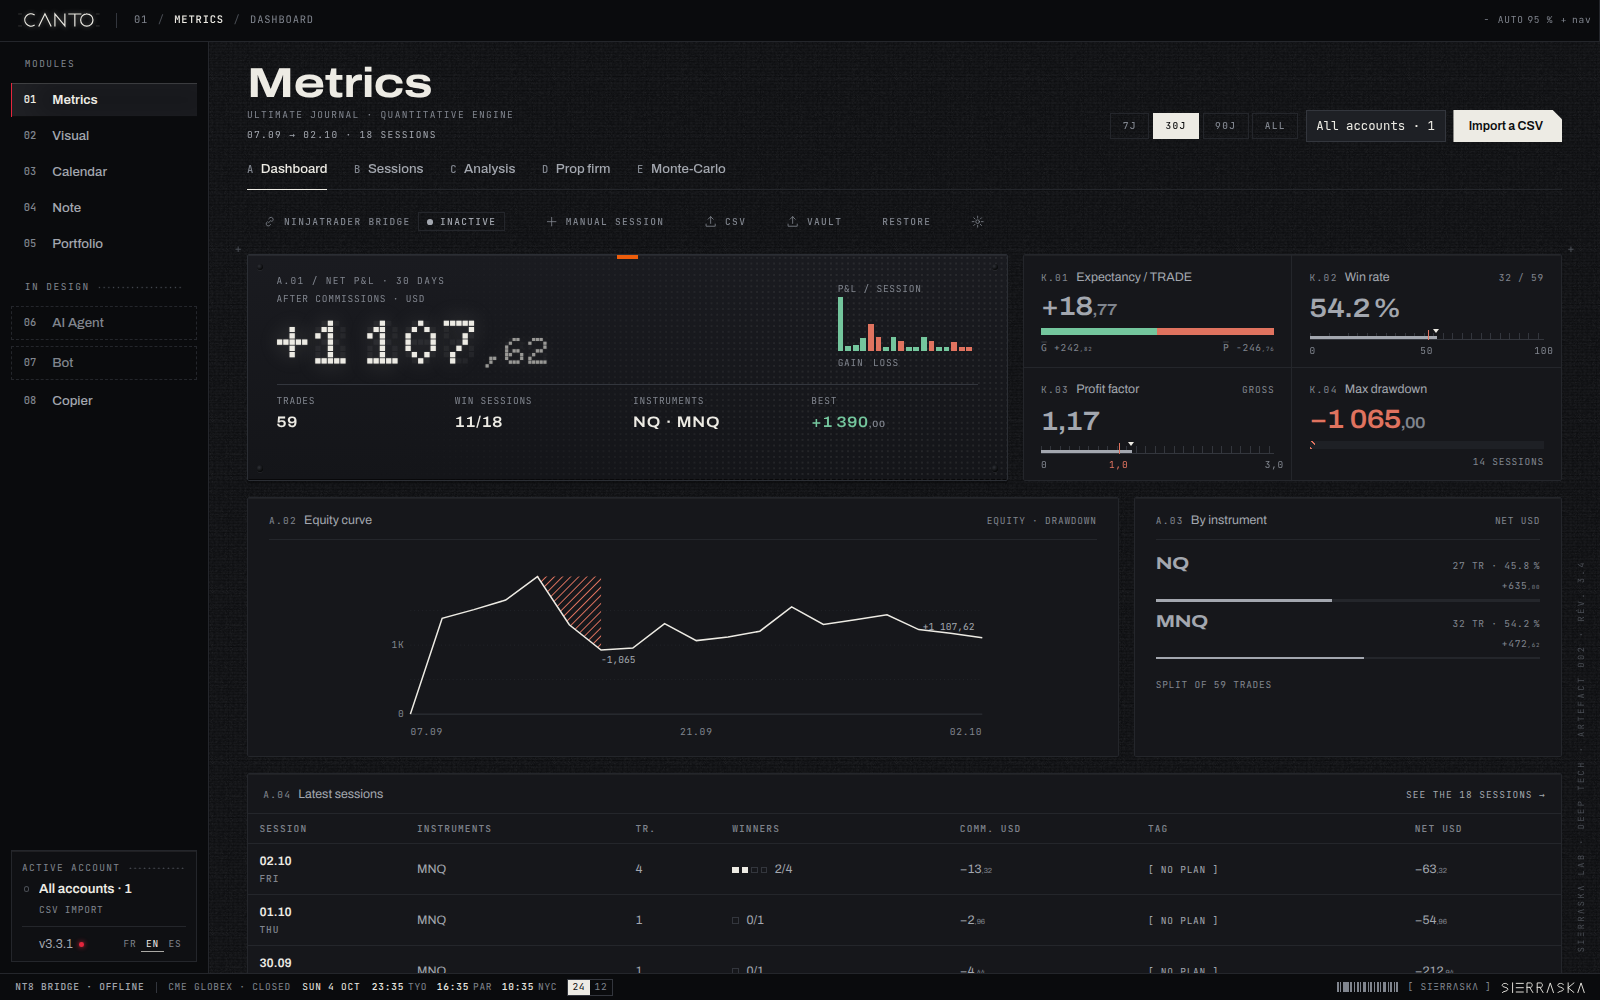
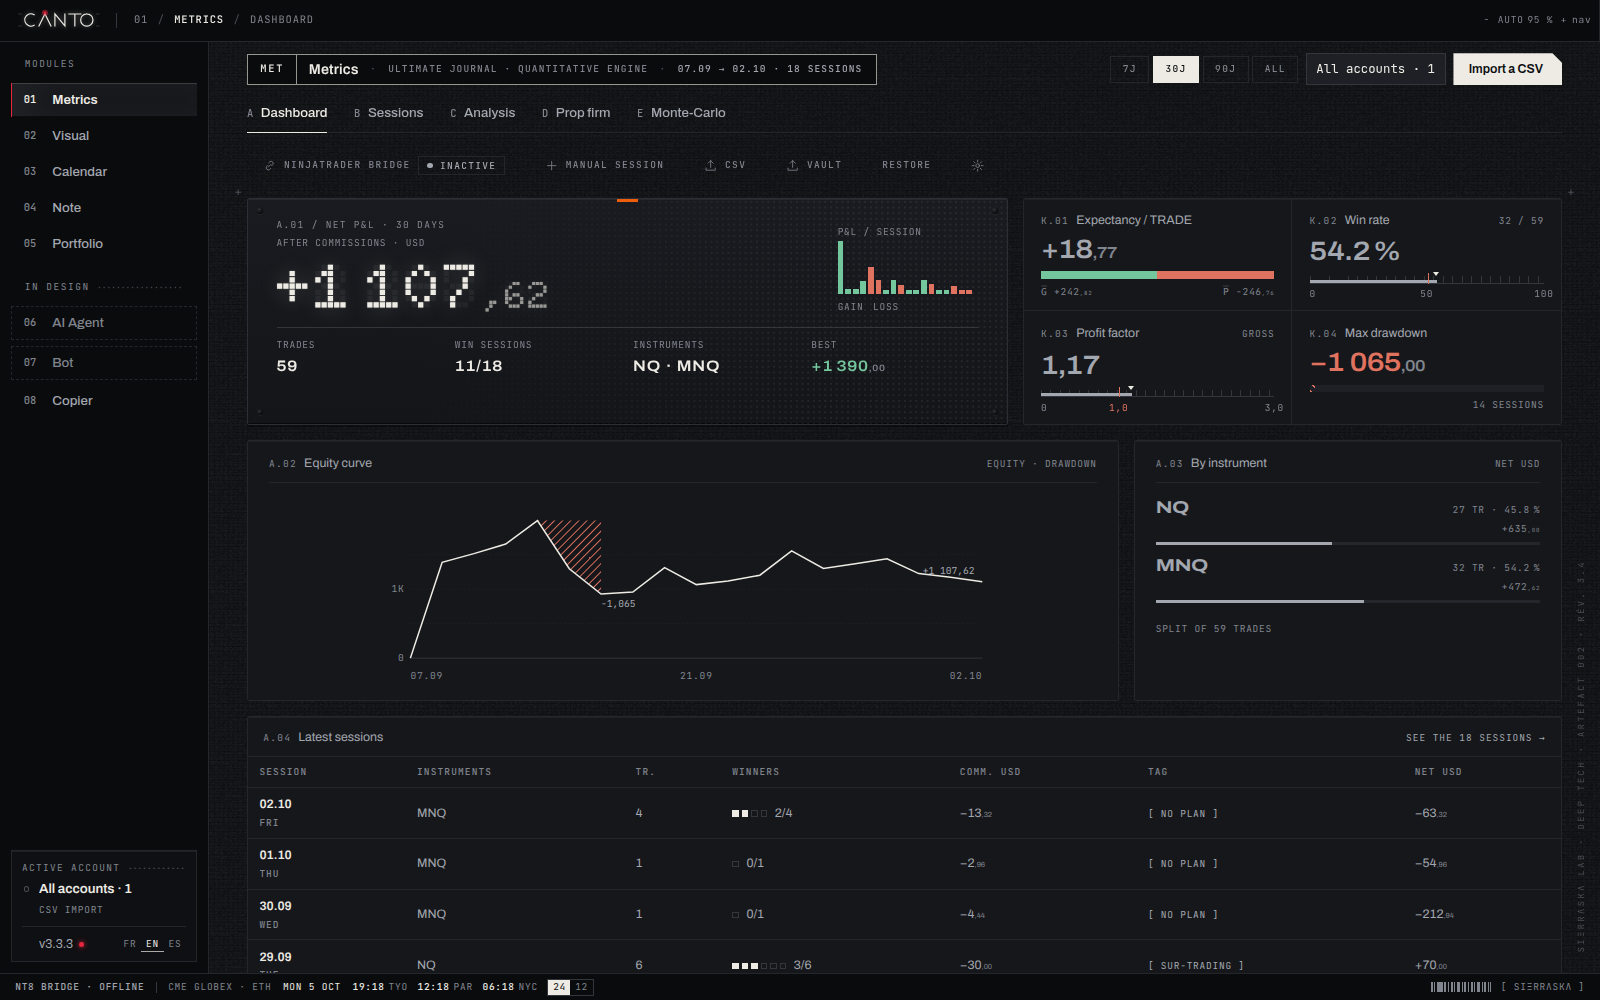
chore(release): 3.3.3 (#73)
Les captures du README montrent le sceau régulier, la pointe du Λ et la plaque de titre. Le journal suit.

diff --git a/tests/changelog.test.ts b/tests/changelog.test.ts
@@ -43,9 +43,9 @@ describe('journal des versions', () => {
     expect(versions).toEqual(sorted);
   });
 
-  it('entriesSince(2.2.1) renvoie 3.0.0 jusqu’à 3.3.2', () => {
-    expect(entriesSince('2.2.1').map((entry) => entry.version)).toEqual(['3.0.0', '3.1.0', '3.2.0', '3.2.1', '3.2.2', '3.3.0', '3.3.1', '3.3.2']);
-    expect(entriesSince('v2.2.1').map((entry) => entry.version)).toEqual(['3.0.0', '3.1.0', '3.2.0', '3.2.1', '3.2.2', '3.3.0', '3.3.1', '3.3.2']);
+  it('entriesSince(2.2.1) renvoie 3.0.0 jusqu’à 3.3.3', () => {
+    expect(entriesSince('2.2.1').map((entry) => entry.version)).toEqual(['3.0.0', '3.1.0', '3.2.0', '3.2.1', '3.2.2', '3.3.0', '3.3.1', '3.3.2', '3.3.3']);
+    expect(entriesSince('v2.2.1').map((entry) => entry.version)).toEqual(['3.0.0', '3.1.0', '3.2.0', '3.2.1', '3.2.2', '3.3.0', '3.3.1', '3.3.2', '3.3.3']);
     expect(entryFor('3.1.0')?.kind).toBe('fonctionnalite');
     expect(entryFor('3.2.0')?.kind).toBe('fonctionnalite');
     expect(entryFor('3.2.0')?.date).toBe('2026-09-29');
@@ -64,6 +64,9 @@ describe('journal des versions', () => {
     expect(entryFor('3.3.2')?.kind).toBe('correctif');
     expect(entryFor('3.3.2')?.date).toBe('2026-10-04');
     expect(entryFor('3.3.2')?.highlights.fr).toHaveLength(3);
+    expect(entryFor('3.3.3')?.kind).toBe('correctif');
+    expect(entryFor('3.3.3')?.date).toBe('2026-10-05');
+    expect(entryFor('3.3.3')?.highlights.fr).toHaveLength(4);
     expect(entryFor('3.0.1')).toBeNull();
   });
 

diff --git a/tests/release-notes.test.ts b/tests/release-notes.test.ts
@@ -22,7 +22,7 @@ describe('notes de Release', () => {
     const source = JSON.parse(readFileSync(path.join(root, 'src', 'engine', 'changelog', 'changelog.json'), 'utf8')) as { entries: unknown[] };
     expect(published.schemaVersion).toBe(1);
     expect(published.entries).toHaveLength(source.entries.length);
-    expect(published.entries.at(-1)?.version).toBe('3.3.2');
+    expect(published.entries.at(-1)?.version).toBe('3.3.3');
     const text = readFileSync(notes, 'utf8');
     expect(text).toContain('### Français');
     expect(text).toContain('### English');

diff --git a/README.md b/README.md
@@ -2,13 +2,13 @@
 
 <br/>
 
-**`SIΞRRΛSKΛ—LAB · CΛNTO · ARTEFACT 002 · REV. V3.3.2 · DESK OUTPUT`**
+**`SIΞRRΛSKΛ—LAB · CΛNTO · ARTEFACT 002 · REV. V3.3.3 · DESK OUTPUT`**
 
 # CΛNTO
 
 ### A local trading desk for CME Group futures (Nasdaq, S&P, Russell, Dow, crude, gold, euro FX)
 
-An artefact from **SIΞRRΛSKΛ Lab** — a local desk for prop-firm traders: quantitative journal, NinjaTrader 8 bridge, official calendar, notes, portfolio, and a Copier that replicates in simulation. **v3.3.2** installs natively on **macOS, Windows, and Linux**. Data stays on the machine. On arrival the desk stays closed until it opens.
+An artefact from **SIΞRRΛSKΛ Lab** — a local desk for prop-firm traders: quantitative journal, NinjaTrader 8 bridge, official calendar, notes, portfolio, and a Copier that replicates in simulation. **v3.3.3** installs natively on **macOS, Windows, and Linux**. Data stays on the machine. On arrival the desk stays closed until it opens.
 
 > Personal noncommercial use is free under the [PolyForm Noncommercial License 1.0.0](LICENSE). Commercial use goes through **SIΞRRΛSKΛ Lab**. Versions 3.1.0 through 3.3.1 published under MIT remain under MIT.
 
@@ -59,7 +59,7 @@ An artefact from **SIΞRRΛSKΛ Lab** — a local desk for prop-firm traders: qu
 
 CΛNTO is the Lab’s **local desk** for **prop-firm traders** and **CME Group futures**, next to NinjaTrader 8. One Electron window, eight modules on the rail, one IndexedDB vault — nothing leaves the machine. The Copier replicates in simulation and starts disarmed. On arrival the desk stays closed; it opens onto the modules only after that. Personal noncommercial use is free. Commercial use goes through the Lab.
 
-| Module | In 3.3.2 |
+| Module | In 3.3.3 |
 |---|---|
 | `01 · MET` Metrics | Journal, prop replay, Monte Carlo |
 | `02 · VIS` Visual | Registry candles, indicators, live bars when the NT8 bridge is connected |
@@ -86,19 +86,19 @@ CΛNTO is the Lab’s **local desk** for **prop-firm traders** and **CME Group f
 
 ## Get started
 
-**v3.3.2** is the current release, under the PolyForm Noncommercial License 1.0.0. It keeps the desk chrome of 3.3.1, the execution port, the Copier on the rail as `08 · CPY`, note branches, and a desk that stays closed on arrival. The application installs without cloning the repository. The C# AddOn is **not compiled inside NinjaTrader 8 by this repository**. On Windows, copy `CantoBridge.cs` into the NinjaTrader AddOns folder and compile it (F5).
+**v3.3.3** is the current release. Desk Unlocked is drawn on one grid, the Λ keeps its red tip, and each module title sits in a compact plate. It stays under the PolyForm Noncommercial License 1.0.0, with the execution port, the Copier on the rail as `08 · CPY`, note branches, and a desk that stays closed on arrival. The application installs without cloning the repository. The C# AddOn is **not compiled inside NinjaTrader 8 by this repository**. On Windows, copy `CantoBridge.cs` into the NinjaTrader AddOns folder and compile it (F5).
 
 | OS | Installer | What you get |
 |---|---|---|
-| **macOS** 12+ (Apple silicon and Intel) | `CANTO-3.3.2-mac-universal.dmg` | Application in `/Applications`. The file bridge lives in the desk. |
-| **Windows** 10 / 11 (x64 and ARM) | `CANTO-3.3.2-win-x64-setup.exe` (or `arm64`) | NSIS wizard (choose the folder, shortcut). Portable: `CANTO-3.3.2-win-x64-portable.exe`. |
-| **Linux** x64 and ARM64 | `CANTO-3.3.2-linux-x86_64.AppImage` or `CANTO-3.3.2-linux-amd64.deb` | ARM64: `linux-arm64.AppImage` and `linux-arm64.deb`. |
+| **macOS** 12+ (Apple silicon and Intel) | `CANTO-3.3.3-mac-universal.dmg` | Application in `/Applications`. The file bridge lives in the desk. |
+| **Windows** 10 / 11 (x64 and ARM) | `CANTO-3.3.3-win-x64-setup.exe` (or `arm64`) | NSIS wizard (choose the folder, shortcut). Portable: `CANTO-3.3.3-win-x64-portable.exe`. |
+| **Linux** x64 and ARM64 | `CANTO-3.3.3-linux-x86_64.AppImage` or `CANTO-3.3.3-linux-amd64.deb` | ARM64: `linux-arm64.AppImage` and `linux-arm64.deb`. |
 
 <a id="installer"></a>
 
 ### macOS
 
-1. Download the DMG from the [GitHub Release v3.3.2](https://github.com/0xSrk/C-NTO/releases/tag/v3.3.2), or run `npm run dist:mac` on a Mac.
+1. Download the DMG from the [GitHub Release v3.3.3](https://github.com/0xSrk/C-NTO/releases/tag/v3.3.3), or run `npm run dist:mac` on a Mac.
 2. Open the DMG and drag **CΛNTO** into **Applications**.
 3. First launch: right-click the app › **Open** (the DMG is not Apple-signed; Gatekeeper asks for this confirmation once).
 4. The launcher, then the desk, open. Metrics › NinjaTrader bridge creates `~/Documents/NinjaTrader 8/export/CANTO` and watches it.
@@ -109,9 +109,9 @@ From source (development): double-click `CANTO.command`, or `chmod +x CANTO.sh &
 
 ### Windows
 
-1. Run `CANTO-3.3.2-win-x64-setup.exe` (or `arm64` on Windows ARM).
+1. Run `CANTO-3.3.3-win-x64-setup.exe` (or `arm64` on Windows ARM).
 2. Choose the folder, finish the wizard, and open **CΛNTO** from the Start menu.
-3. No-install variant: `CANTO-3.3.2-win-x64-portable.exe`.
+3. No-install variant: `CANTO-3.3.3-win-x64-portable.exe`.
 4. Metrics › NinjaTrader bridge › default folder `Documents\NinjaTrader 8\export\CANTO`.
 5. Real time: `CantoBridge.cs` ships in `resources/ninjatrader/` next to the executable (sources: `ninjatrader/CantoBridge.cs`). Copy it to `Documents\NinjaTrader 8\bin\Custom\AddOns\`, then NinjaScript Editor › Compile (F5). In the desk, **Write the NinjaTrader configuration** so the AddOn reads `bridge.json` (port and token) and opens the WebSocket. The CSV file is still written in parallel.
 
@@ -121,8 +121,8 @@ From source: double-click `CANTO.cmd`. The Electron binary is downloaded and ext
 
 ### Linux
 
-1. **AppImage** (no system install): `chmod +x CANTO-3.3.2-linux-x86_64.AppImage && ./CANTO-3.3.2-linux-x86_64.AppImage`. ARM64: `CANTO-3.3.2-linux-arm64.AppImage`.
-2. **Debian / Ubuntu**: `sudo apt install ./CANTO-3.3.2-linux-amd64.deb` (ARM64: `CANTO-3.3.2-linux-arm64.deb`), then launch `canto` or **CΛNTO** from the menu.
+1. **AppImage** (no system install): `chmod +x CANTO-3.3.3-linux-x86_64.AppImage && ./CANTO-3.3.3-linux-x86_64.AppImage`. ARM64: `CANTO-3.3.3-linux-arm64.AppImage`.
+2. **Debian / Ubuntu**: `sudo apt install ./CANTO-3.3.3-linux-amd64.deb` (ARM64: `CANTO-3.3.3-linux-arm64.deb`), then launch `canto` or **CΛNTO** from the menu.
 3. The bridge creates `~/Documents/NinjaTrader 8/export/CANTO`. Same rule as macOS: the AddOn runs inside NinjaTrader 8 on Windows; the Linux desk imports the CSVs from that folder.
 
 From source: `chmod +x CANTO.sh && ./CANTO.sh`.
@@ -179,7 +179,7 @@ Every install opens on the **launcher** — desk language, version check, and th
 
 | State | Behavior |
 |---|---|
-| Up to date | The button shows `v3.3.2` (quiet) |
+| Up to date | The button shows `v3.3.3` (quiet) |
 | Update available | The button turns **amber / yellow** — one click installs and relaunches |
 
 ---
@@ -601,6 +601,7 @@ System 3.4 — **[docs/DESIGN.md](docs/DESIGN.md)** (the previous grammar is arc
 
 The journal inside the desk lists the same releases, in French, English, and Spanish.
 
+- 3.3.3 — Desk Unlocked on one grid. Red tip on the Λ. Compact module plate. (2026-10-05)
 - 3.3.2 — PolyForm Noncommercial 1.0.0. Personal noncommercial use is free. Commercial use goes through the Lab. (2026-10-04)
 - 3.3.1 — Lighter title bar, session clocks, account plate, and the Desk Unlocked opening. (2026-10-04)
 - 3.3.0 — Execution port. Copier on the rail as `08 · CPY`, simulation only, disarmed on every launch. A note can branch another. The desk stays closed on arrival. (2026-10-04)
@@ -621,7 +622,7 @@ The journal inside the desk lists the same releases, in French, English, and Spa
 
 ## Roadmap
 
-Shipped in 3.3.2: the PolyForm Noncommercial License. Shipped in 3.3.1: the desk chrome and the Desk Unlocked opening. Shipped in 3.3.0: the execution port, simulation replication, and the Copier on the rail.
+Shipped in 3.3.3: the regular seal, the Λ tip, and the compact module plate. Shipped in 3.3.2: the PolyForm Noncommercial License. Shipped in 3.3.1: the desk chrome and the Desk Unlocked opening. Shipped in 3.3.0: the execution port, simulation replication, and the Copier on the rail.
 
 Still ahead of the desk: the agent remains a prototype, and Bot remains design — it sends no order. The Copier does not follow a real account in this version. What the Lab brings next is listed under [Services](#services).
 
@@ -667,6 +668,6 @@ Fonts shipped with the desk (copied next to the launcher at build time, license 
 <div align="center">
 <br/>
 
-**`SIΞRRΛSKΛ—LAB · CΛNTO · ARTEFACT 002 · REV. A · DESK OUTPUT · v3.3.2`**
+**`SIΞRRΛSKΛ—LAB · CΛNTO · ARTEFACT 002 · REV. A · DESK OUTPUT · v3.3.3`**
 
 </div>
